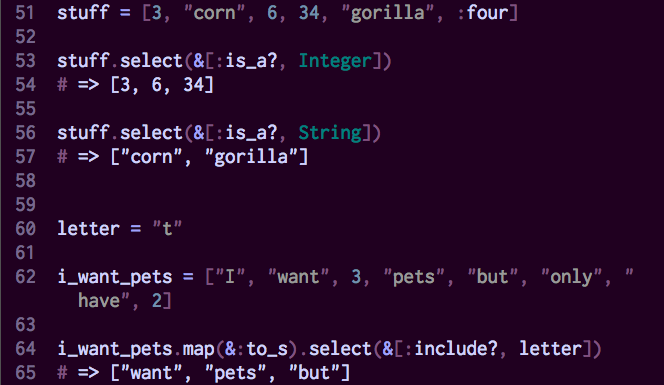
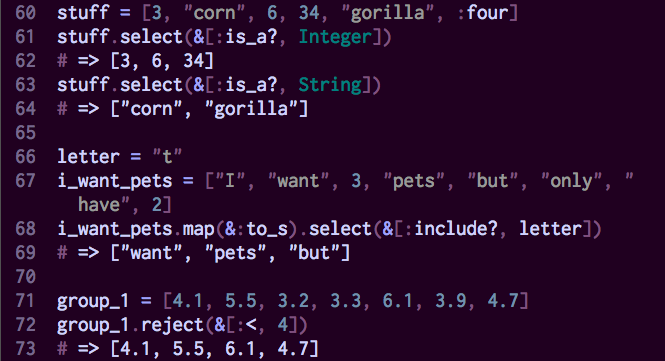
cleaned up blog posts

diff --git a/blog/t4-array-proc.html b/blog/t4-array-proc.html
@@ -47,7 +47,12 @@
 
       <img src="imgs/proc1.png" />
       <p>
-        In my post about <code>Enumerable</code> methods, I discussed methods like <code>Array#map</code>, which yields each element of an array to a block and stores the output in a new array. It transpires that in some cases, it isn't necessary to type out a whole block for this method, among others. Shown above is one such example which utilizes the <code>&</code> operator on a symbol <code>:upcase</code>. <strong>What's going on here?</strong> The <code>&</code> operator has several meanings, but in this context it attempts to convert the symbol to a <em>proc</em>. Procs are like blocks, but can be stored in a variable and referenced. The conversion is attempted by calling the <code>Symbol#to_proc</code> method. So <code>&:upcase</code> <em>really</em> means <code>:upcase.to_proc</code>.
+        In my post about <code>Enumerable</code> methods, I discussed methods like <code>Array#map</code>, which yields each element of an array to a block and stores the output in a new array. It transpires that in some cases, it isn't necessary to type out a whole block for this method, among others. Shown above is one such example which utilizes the <code>&</code> operator on a symbol <code>:upcase</code>. <strong>What's going on here?</strong> The <code>&</code> operator is generally used to call a <em>proc</em>. Procs are essentially blocks, but differ in that they are objects. Despite almost everything in Ruby being an object, blocks are not, and they cannot be saved into a variable, only executed. But a proc <em>is</em> an object. One can be initialized with <code>Proc.new</code>, and the <code>&</code> is used to call a proc stored in a variable.
+      </p>
+      <img src="imgs/proc1a.png">
+      <h6>Creating a proc and calling it multiple times</h6>
+      <p>
+        This can eliminate a lot of redundancy! But what does this have to do with symbols? When <code>&</code> is given an object that isn't a proc, like a symbol, it attempts to convert it to one. The conversion is attempted by calling the <code>Symbol#to_proc</code> method. So <code>&:upcase</code> <em>really</em> means <code>:upcase.to_proc</code>.
       </p>
       <img src="imgs/proc2.png">
       <h6>The definition of the method and an example of calling it.</h6>
@@ -62,7 +67,7 @@
       <img src="imgs/proc4.png">
       <h6>I love this shortcut! But why can't I put an argument in?</h6>
       <p>
-        Sadly this is not possible at the time of writing. <strong>But can we make it possible?</strong> We would like to pass an object in to be used as an argument, so <code>Symbol#to_proc</code> can't help us. But what about <code>Array#to_proc</code>? Certainly we can place objects in conjunction with our symbol in an array! But <code>Array#to_proc</code> doesn't exist... yet. Let's write it!
+        Sadly this is not possible at the time of writing. <strong>But can we make it possible?</strong> We would like to pass an object in to be used as an argument, so <code>Symbol#to_proc</code> can't help us. But what about <code>Array#to_proc</code>? Certainly we can place objects in conjunction with our symbol in an array! But <code>Array#to_proc</code> doesn't exist... yet. Let's do a little bit of monkey-patching!
       </p>
       <img src="imgs/proc5.png">
       <h6>Defining a conversion for arrays to procs.</h6>

diff --git a/blog/s2-prop-65.html b/blog/s2-prop-65.html
@@ -50,8 +50,8 @@
         Proposition 65 was originally passed in 1986, but the public is becoming abundantly aware of it recently. Why? <em>Because signs are popping up warning Californians about cancer-causing chemicals in restaurants!</em> Should we be in hysterics? Not exactly...
       </p>
       <p>
-        One of the requirements of this proposition is that businesses must post warnings if there are detectable levels of known harmful chemicals in their product or premises. As it turns out, these chemicals are (some of) the culprits: <a href="http://en.wikipedia.org/wiki/Acrylamide">acrylamide</a>, <a href="http://en.wikipedia.org/wiki/Benzopyrene">benzopyrene</a>, and <a href="http://en.wikipedia.org/wiki/Heterocyclic_amine_formation_in_meat">HCAs</a>. These actually occur naturally, including in your own kitchen. Acrylamide is formed from heating starch-rich foods, such as potatoes, bread, and cookies. Benzopyrene and HCAs are formed from burning protein-rich foods, particularly meat. Actually, benzopyrene can form from burning many carbon sources, like charcoal and gasoline. </p>
-        <img src="http://upload.wikimedia.org/wikipedia/commons/e/eb/Benzo(a)pyrene-3D-balls-2.png">
+        One of the requirements of this proposition is that businesses must post warnings if there are detectable levels of known harmful chemicals in their product or premises. As it turns out, these chemicals are (some of) the culprits: <a href="http://en.wikipedia.org/wiki/Acrylamide">acrylamide</a>, <a href="http://en.wikipedia.org/wiki/Benzopyrene">benzopyrene</a>, and <a href="http://en.wikipedia.org/wiki/Heterocyclic_amine_formation_in_meat">HCAs</a>. These actually occur naturally, including in your own kitchen. Acrylamide is formed from heating starch-rich foods, such as potatoes, bread, and cookies. Benzopyrene and HCAs are formed from burning protein-rich foods, particularly meat. Actually, benzopyrene can form from burning many carbon sources, like charcoal and gasoline. These signs are there beause of chemicals that arise <u>simply from heating food</u>, not because of any pernicious additives.</p>
+        <img style="max-width: 50%; height: auto"src="http://upload.wikimedia.org/wikipedia/commons/e/eb/Benzo(a)pyrene-3D-balls-2.png">
         <h6>Chemical structure of benzo(a)pyrene.</h6>
         <p>
           Foods are amalgams of countless chemical entities, and by cooking them you cause them to react and form a myriad of new compounds. We do this because these new compounds enhance the flavor of the food, but we're inadvertently forming <a href="http://en.wikipedia.org/wiki/Carcinogen">carcinogens</a> as well. So should you avoid restaurants with these warnings? Probably not. It's likely that you've been consuming these chemicals on a regular basis. They're there when you toast bread or put flawless grill marks on your chicken breast. Although they are <em>detectable</em> in cooked foods, <strong>it's not likely that the amounts are sufficient to exert carcinogenic effects.</strong>

diff --git a/blog/t4-enumerable-methods.html b/blog/t4-enumerable-methods.html
@@ -51,12 +51,12 @@
       <img src="imgs/arrayself.png">
       <h6>The <code>Array#each</code> method in action.</h6>
       <p>
-        Each element in the array gets yielded to a code block. In the example above, <code>#each</code> is called to <code>puts</code> each integer in the array incremented by one. One of the most useful <code>Enumerable</code> methods is <code>#map</code>. This stores each output in a new array.
+        Each element in the array gets yielded to a code block in order from 0 to the end. In the example above, <code>#each</code> is called to <code>puts</code> each integer in the array incremented by one. One of the most useful <code>Enumerable</code> methods is <code>#map</code>. This stores each output in a new array.
       </p>
       <img src="imgs/arraymap.png">
       <h6><code>Array#map</code>ping to a new array.</h6>
       <p>
-        The advantage here is that the array can be saved to a variable and manipulated, instead of being <code>puts</code>ed. Again, <code>#map</code> calls <code>#each</code>. The same is true for other <code>Enumerable</code> methods like <code>#cycle</code>, <code>#select</code>, or <code>#group_by</code>. The beauty of these methods is that they exist for all other container object classes, like <code>Range</code> and <code>Set</code>, although they don't all work exactly the same way. They can even be applied to classes of your own creation, as long as you define an <code>#each</code> method! Check out some other <code>Enumerable</code> methods in the <a href="http://ruby-doc.org/core-2.2.0/Enumerable.html">Ruby Docs</a>.
+        The advantage here is that the array can be saved to a variable and manipulated, instead of just being <code>puts</code>ed. Again, <code>#map</code> calls <code>#each</code>. The same is true for other <code>Enumerable</code> methods like <code>#cycle</code>, <code>#select</code>, or <code>#group_by</code>. The beauty of these methods is that they exist for all other container object classes, like <code>Range</code> and <code>Set</code>, although they don't all work exactly the same way. They can even be applied to classes of your own creation, as long as you define an <code>#each</code> method! Check out some other <code>Enumerable</code> methods in the <a href="http://ruby-doc.org/core-2.2.0/Enumerable.html">Ruby Docs</a>.
       </p>
 
     </section>

diff --git a/blog/s1-teixobactin.html b/blog/s1-teixobactin.html
@@ -47,7 +47,7 @@
       <img src="imgs/teixobactin.png">
 
       <p>
-        Among the sewer system and vaccinations, antibiotics were a paradigm-shifting innovation for the amelioration of human health! Once fatal infections had become a trivial threat, felled by simply taking a pill--until recently. Bacteria are fighting back, and the discovery of teixobactin may be the trump card we need to stay one step ahead of our single-celled adversaries.
+        Among the sewer system and vaccinations, antibiotics were a paradigm-shifting innovation for the amelioration of human health! Once fatal infections had become a trivial threat, felled by simply taking a pill—until recently. Bacteria are fighting back, and the discovery of teixobactin may be the trump card we need to stay one step ahead of our single-celled adversaries.
       </p>
       <p>
         Penicillin, the first antibiotic, was discovered serendipitously in 1897 by Scottish scientist Alexander Fleming. It was produced by a fungus, <em>Penicillium glaucum</em>. After becoming widely prescribed, penicillin dropped the fatality rate of staph infection, for example, from 80% to less than 1%! Since then, scientists have created synthetic versions with more favorable properties, e.g. methicillin and amoxicillin. However, bacteria evolve <strong>much</strong> faster than we do, and the emergence of resistant strains (MRSA) is a growing problem in the 21<sup>st</sup> century. In 2008, it's estimated that up to 25% of staph infections in the developed world do not respond to penicillin or its derivatives. Fortunately, these are often not fatal due to an arsenal of other antibiotics, unrelated to penicillin. Resistance to these, however, is also growing. It's estimated that about 700,000 deaths each year are attributed to antibiotic resistant microbes worldwide.  What will we do when we've run out of effective antibiotics?

diff --git a/blog/t3-arrays-hashes.html b/blog/t3-arrays-hashes.html
@@ -52,10 +52,10 @@
       <img src="imgs/arrayhash.png">
       <h6>An example of an array and a hash.</h6>
       <p>
-        Hashes are a bit more conceptually complex, but very analogous. Now imagine a stack of folders, each with only one page within it. These folders have a tab at the top on which any object can be written. It's similar to an array, but instead of these contents being referenced by an integer, or page number, it can be referenced by any object, or "key". Prior to Ruby 1.9.1, hases were not ordered, like arrays. However, now hashes are ordered in the same sequence which they are entered.
+        Hashes are a bit more conceptually complex, but very analogous. Now imagine a stack of folders, each with only one page within it. These folders have a tab at the top on which any object can be written. It's similar to an array, but instead of these contents being referenced by an integer, or page number, it can be referenced by any object, or "key". Prior to Ruby 1.9, hases were not ordered, like arrays. However, now hashes are ordered by default in the same sequence which they are entered.
       </p>
       <p>
-        Arrays are convenient because they can be sorted. However, inserting into sorted arrays is expensive, requiring <em>O(n)</em> time. Inserting into hashes is much more efficient! So if your task requires more insertions than look-ups, maybe a hash is more suitable for the job!
+        Arrays are convenient because they can be sorted. However, inserting into sorted arrays is expensive, requiring <em>O(n)</em> time. Inserting into hashes is much more efficient! So if your task requires far more insertions than look-ups, maybe a hash is more suitable for the job!
       </p>
 
     </section>

diff --git a/blog/t1-git-blog.html b/blog/t1-git-blog.html
@@ -54,7 +54,7 @@
       <h6>My cat and I, when on good terms.</h6>
 
       <p>
-        Other than casting Samson into oblivion, I could have used <em>version control software</em>. Git is an example of this. It remembers every saved, i.e. "committed," version of a file, allowing the user to return to a previously saved iteration of the file in case something goes awry. Hence, I would've been able to recover my 2000 word essay as it was before being replaced by my cat's nonsense. It has other uses as well, such as allowing the user to create multiple divergent branches of their project.
+        Other than casting Samson into oblivion, I could have used <em>version control software</em>. Git is an example of this. It remembers every saved, i.e. "committed," version of a file, allowing the user to return to a previously saved iteration of the file in case something goes awry. Hence, I would've been able to recover my 2000 word essay as it was before being replaced by my cat's nonsense. It has other uses as well, such as allowing the user to create multiple divergent branches of their project. This can be useful for tinkering with a certain feature.
       </p>
       <p>
         <a href="https://www.github.com">Github</a> is another tool that has captivated the hearts of programmers. Github is a website that connects projects together, allowing multiple people to clone files, make changes, and add their changes concurrently! It makes programming a much more collaborative endeavor. It can also serve as a portfolio, showcasing one's achievements and contributions. Overall, it's like LinkedIn for programmers!

diff --git a/blog/c1-chefs-kitchen.html b/blog/c1-chefs-kitchen.html
@@ -51,7 +51,7 @@
       <img src="imgs/shereef.png" style="max-width: 50%; height: auto">
       <h6>"I want you to walk in hungry, and I want you to walk in mad, and I want you to walk in inspired, and I want you to walk in and be like, <em>I am going to co-create this with my cohort</em>!"</h6>
       <p>
-        When I decided to quit chemistry for DBC, I was shamed and ridiculed, even by my own family. Everyone insisted that I'd be more successful with a PhD in chemistry than at some "for-profit school." Despite the risks, I believe I have the tenacity to become a greater developer. I will walk in those doors with the resolution to prove to everyone that I have what it takes. <strong>I was trained as a scientist after all, so I'm not afraid of an experiment.</strong>
+        When I decided to quit chemistry for DBC, I was shamed and ridiculed, even by my own family. Everyone insisted that I'd be more successful with a PhD in chemistry than at some "for-profit school" and that I was throwing my life away. Despite the risks, I believe I have the tenacity to become a greater developer. I will walk in those doors with the resolution to prove to everyone that I have what it takes. <strong>I was trained as a scientist after all, so I'm not afraid of an experiment.</strong>
       </p>
     </section>
 

diff --git a/blog/new.rb b/blog/new.rb
@@ -7,6 +7,15 @@ foo.map(&:upcase)
 # => ["I", "LOVE", "TO", "CODE"]
 
 
+upper = Proc.new { |word| word.upcase}
+["i", "love", "to", "code"].map(&upper)
+# => ["I", "LOVE", "TO", "CODE"]
+["got", "asked", "out", "on", "april", "1st"].map(&upper)
+# => ["GOT", "ASKED", "OUT", "ON", "APRIL", "1ST"]
+["my", "armpit", "is", "a", "taco"].map(&upper)
+# => ["MY", "ARMPIT", "IS", "A", "TACO"]
+
+
 class Symbol
   def to_proc
     Proc.new { |obj, *args| obj.send(self, *args) }
@@ -49,20 +58,19 @@ end
 
 
 stuff = [3, "corn", 6, 34, "gorilla", :four]
-
 stuff.select(&[:is_a?, Integer])
 # => [3, 6, 34]
-
 stuff.select(&[:is_a?, String])
 # => ["corn", "gorilla"]
 
-
 letter = "t"
-
 i_want_pets = ["I", "want", 3, "pets", "but", "only", "have", 2]
-
 i_want_pets.map(&:to_s).select(&[:include?, letter])
 # => ["want", "pets", "but"]
+
+group_1 = [4.1, 5.5, 3.2, 3.3, 6.1, 3.9, 4.7]
+group_1.reject(&[:<, 4])
+# => [4.1, 5.5, 6.1, 4.7]
 
 
 
